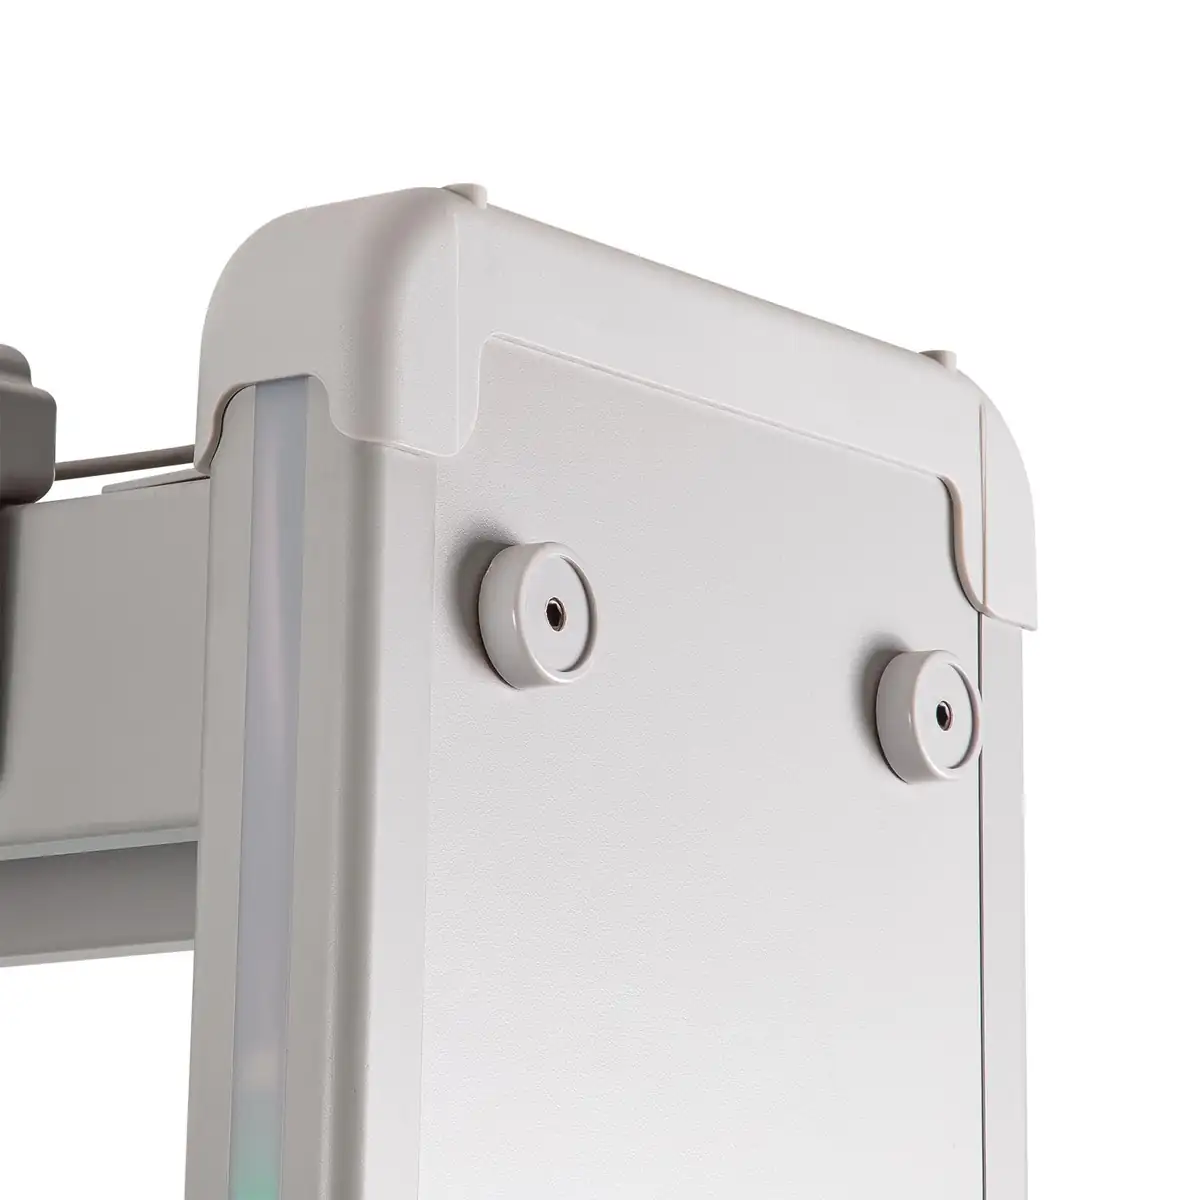
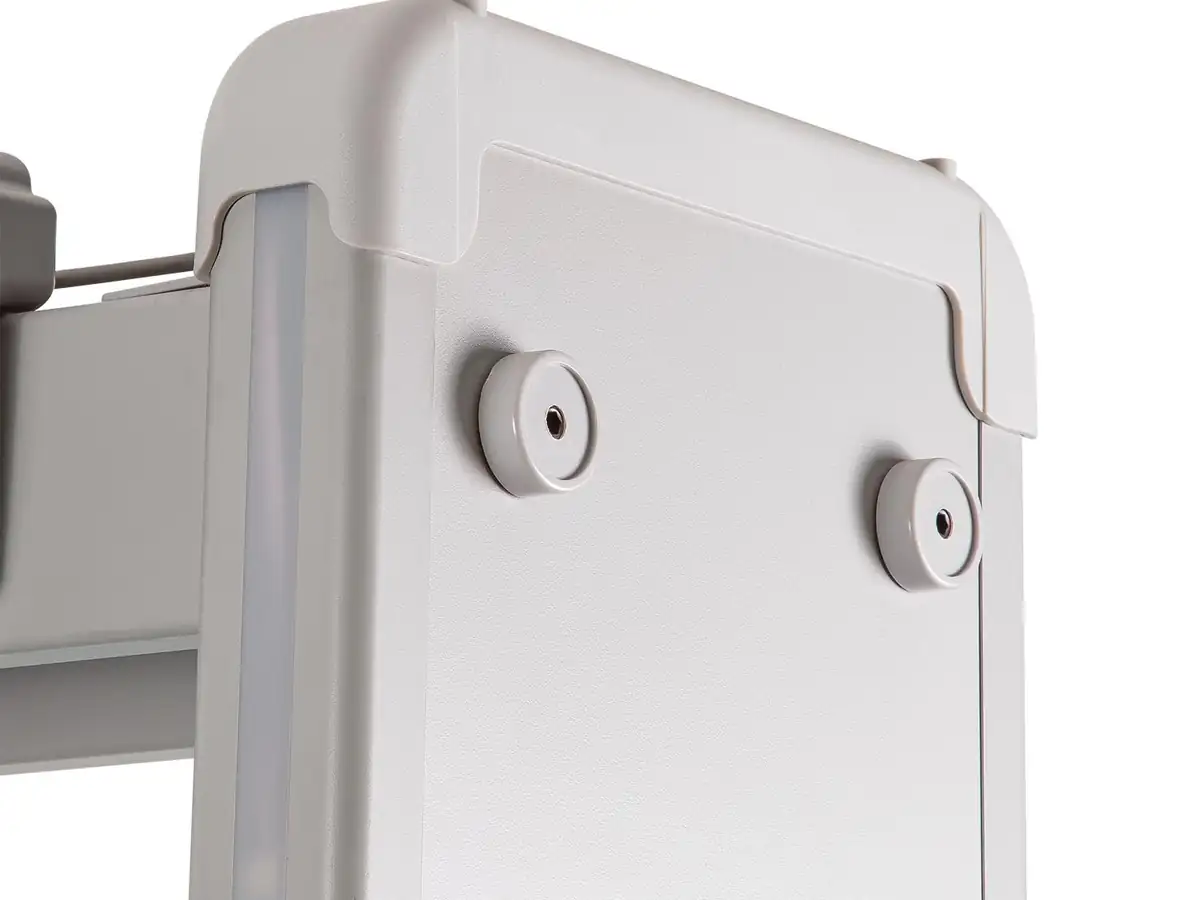
Crop assembly detail photo to its displayed 4:3 frame
Smaller file (15.5 KB) and no wasted pixels; the figure already
showed it at 4:3 via object-fit.

Claude-Session: https://claude.ai/code/session_0184iKbaf4tpAuCPnpXDu8Pk

diff --git a/landing-wtmd/index.html b/landing-wtmd/index.html
@@ -208,7 +208,7 @@
   .details { display: grid; grid-template-columns: 7fr 5fr; gap: var(--s5); margin-top: var(--s9); }
   .details figure { margin: 0; display: grid; gap: var(--s3); align-content: start; }
   .details img { width: 100%; aspect-ratio: 1; object-fit: cover; background: var(--plate); }
-  .details figure:first-child img { aspect-ratio: 4 / 3; object-position: 40% 35%; }
+  .details figure:first-child img { aspect-ratio: 4 / 3; }
   .details figure:last-child { margin-top: var(--s9); }
   @media (max-width: 860px) {
     .anatomy-figure, .anatomy-copy { grid-column: 1 / -1; }
@@ -486,7 +486,7 @@
 
       <div class="details">
         <figure class="reveal">
-          <img src="img/detail-assemblage-1200.webp" srcset="img/detail-assemblage-640.webp 640w, img/detail-assemblage-1200.webp 1200w" sizes="(max-width: 860px) 92vw, 56vw" width="1200" height="1200" loading="lazy" alt="Détail de la jonction entre la colonne et la traverse, fixée par vis">
+          <img src="img/detail-assemblage-1200.webp" srcset="img/detail-assemblage-640.webp 640w, img/detail-assemblage-1200.webp 1200w" sizes="(max-width: 860px) 92vw, 56vw" width="1200" height="900" loading="lazy" alt="Détail de la jonction entre la colonne et la traverse, fixée par vis">
           <figcaption><b>Fig. 03</b> — Colonnes et traverse assemblées par vis : le portique se transporte démonté et se monte sur place.</figcaption>
         </figure>
         <figure class="reveal">
